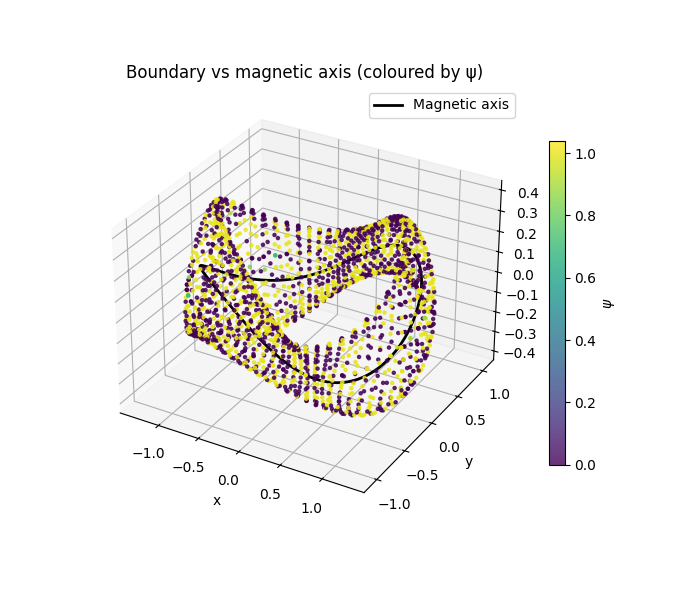
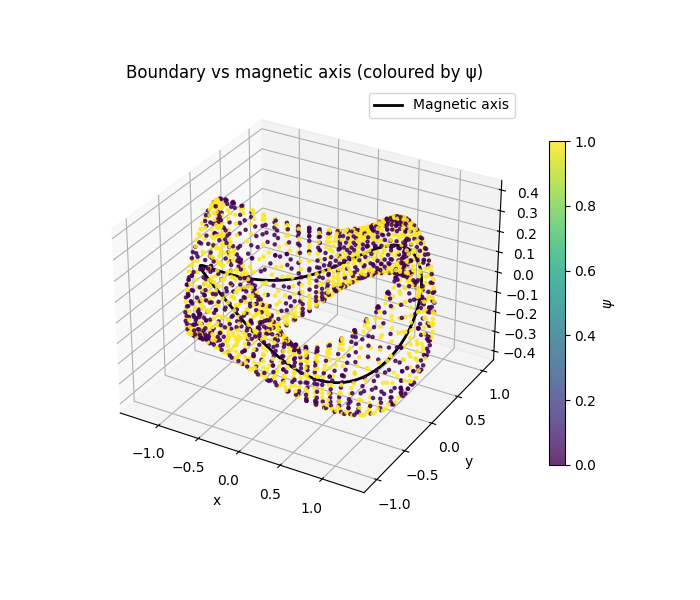
Refactor make_linear_operator and compute_rhs_full functions for improved clarity and efficiency; update grid resolution parameter in CLI.

diff --git a/MFS/solve_flux_psi_fci.py b/MFS/solve_flux_psi_fci.py
@@ -575,97 +575,149 @@ def _face_T(D3: np.ndarray, dx: float, dy: float, dz: float) -> Tuple[np.ndarray
     return kx, ky, kz
 
 
-def make_linear_operator(nx: int, ny: int, nz: int, dx: float, dy: float, dz: float,
-                         inside: np.ndarray, Dfield: np.ndarray, fixed_mask: np.ndarray,
-                         fixed_val: np.ndarray) -> LinearOperator:
+def make_linear_operator(
+    nx: int,
+    ny: int,
+    nz: int,
+    dx: float,
+    dy: float,
+    dz: float,
+    inside: np.ndarray,
+    Dfield: np.ndarray,
+    fixed_mask: np.ndarray,
+    fixed_val: np.ndarray,
+):
     """
     Build a matrix–free LinearOperator for the anisotropic diffusion equation
 
         A[u] = -div( D ∇u )
 
-    using a full-tensor central-difference stencil in the interior:
+    using a conservative flux form on a uniform Cartesian grid.
 
-      - D is assumed slowly varying over one cell, so we discretise
-        -Σ_{p,q} D_{pq} ∂_p∂_q ψ with 2nd-order central differences.
-
-    Dirichlet rows are stamped as u - fixed_val where fixed_mask is True.
+    We:
+      * only use faces where **both** cells are inside the surface;
+      * apply the PDE stencil only on "deep interior" nodes (interior_core);
+      * impose Dirichlet rows u - fixed_val = 0 on fixed_mask nodes.
     """
     inside3 = inside.reshape(nx, ny, nz)
-    D3 = Dfield.reshape(nx, ny, nz, 3, 3)
-    fixed_mask = fixed_mask.astype(bool)
-    rows_fixed = np.where(fixed_mask)[0]
+    fixed3  = fixed_mask.reshape(nx, ny, nz)
+    D3      = Dfield.reshape(nx, ny, nz, 3, 3)
 
-    inv_dx2 = 1.0 / (dx * dx)
-    inv_dy2 = 1.0 / (dy * dy)
-    inv_dz2 = 1.0 / (dz * dz)
-    inv_4dxdy = 1.0 / (4.0 * dx * dy)
-    inv_4dxdz = 1.0 / (4.0 * dx * dz)
-    inv_4dydz = 1.0 / (4.0 * dy * dz)
+    # Deep interior: inside the surface, not Dirichlet, not on the outermost grid shell
+    interior_core = np.ones((nx, ny, nz), dtype=bool)
+    interior_core[0, :, :]   = False
+    interior_core[-1, :, :]  = False
+    interior_core[:, 0, :]   = False
+    interior_core[:, -1, :]  = False
+    interior_core[:, :, 0]   = False
+    interior_core[:, :, -1]  = False
+
+    interior_core &= inside3 & (~fixed3)
+
+    deep_inside_mask = interior_core.ravel(order="C")
+
+    # Face transmissibilities (already include 1/dx^2, 1/dy^2, 1/dz^2 factors)
+    Tx, Ty, Tz = _face_T(D3, dx, dy, dz)
 
     def matvec(u: np.ndarray) -> np.ndarray:
         u3 = u.reshape(nx, ny, nz)
-
-        # Core region indices where centred differences are defined
-        uc = u3[1:-1, 1:-1, 1:-1]
-        Dc = D3[1:-1, 1:-1, 1:-1, :, :]
-        inside_core = inside3[1:-1, 1:-1, 1:-1]
-
-        # Extract tensor components at cell centres
-        Dxx = Dc[..., 0, 0]
-        Dyy = Dc[..., 1, 1]
-        Dzz = Dc[..., 2, 2]
-        Dxy = Dc[..., 0, 1]
-        Dxz = Dc[..., 0, 2]
-        Dyz = Dc[..., 1, 2]
-
-        # Second derivatives (diagonal terms)
-        d2psi_dx2 = (u3[2:, 1:-1, 1:-1] - 2.0 * uc + u3[:-2, 1:-1, 1:-1]) * inv_dx2
-        d2psi_dy2 = (u3[1:-1, 2:, 1:-1] - 2.0 * uc + u3[1:-1, :-2, 1:-1]) * inv_dy2
-        d2psi_dz2 = (u3[1:-1, 1:-1, 2:] - 2.0 * uc + u3[1:-1, 1:-1, :-2]) * inv_dz2
-
-        # Mixed derivatives (cross terms), standard 4-point central differences
-        d2psi_dxdy = (
-            u3[2:, 2:, 1:-1]   - u3[:-2, 2:, 1:-1]
-            - u3[2:, :-2, 1:-1] + u3[:-2, :-2, 1:-1]
-        ) * inv_4dxdy
-
-        d2psi_dxdz = (
-            u3[2:, 1:-1, 2:]   - u3[:-2, 1:-1, 2:]
-            - u3[2:, 1:-1, :-2] + u3[:-2, 1:-1, :-2]
-        ) * inv_4dxdz
-
-        d2psi_dydz = (
-            u3[1:-1, 2:, 2:]   - u3[1:-1, :-2, 2:]
-            - u3[1:-1, 2:, :-2] + u3[1:-1, :-2, :-2]
-        ) * inv_4dydz
-
-        # Full-tensor diffusion operator in the core
-        L_core = (
-            Dxx * d2psi_dx2 +
-            Dyy * d2psi_dy2 +
-            Dzz * d2psi_dz2 +
-            2.0 * Dxy * d2psi_dxdy +
-            2.0 * Dxz * d2psi_dxdz +
-            2.0 * Dyz * d2psi_dydz
-        )
-
-        # Only apply PDE inside the surface
-        L_core[~inside_core] = 0.0
-
-        # Assemble full array
         out3 = np.zeros_like(u3)
-        out3[1:-1, 1:-1, 1:-1] = -L_core  # minus sign from -div(D∇ψ)
+
+        # Only use faces where both neighbours are inside the plasma
+        mask_x = inside3[1:, :, :] & inside3[:-1, :, :]
+        mask_y = inside3[:, 1:, :] & inside3[:, :-1, :]
+        mask_z = inside3[:, :, 1:] & inside3[:, :, :-1]
+
+        # --- x-direction fluxes ---
+        # flux at face between i and i+1: F_x = Tx * (u[i+1] - u[i])
+        Fx_plus = Tx * mask_x * (u3[1:, :, :] - u3[:-1, :, :])
+
+        out3[:-1, :, :] -= Fx_plus
+        out3[1:,  :, :] += Fx_plus
+
+        # --- y-direction fluxes ---
+        Fy_plus = Ty * mask_y * (u3[:, 1:, :] - u3[:, :-1, :])
+
+        out3[:, :-1, :] -= Fy_plus
+        out3[:, 1:,  :] += Fy_plus
+
+        # --- z-direction fluxes ---
+        Fz_plus = Tz * mask_z * (u3[:, :, 1:] - u3[:, :, :-1])
+
+        out3[:, :, :-1] -= Fz_plus
+        out3[:, :, 1: ] += Fz_plus
+
+        # Zero out everything except true PDE interior
+        out3[~interior_core] = 0.0
         out3[~inside3] = 0.0
 
         out = out3.ravel(order="C")
 
-        # Dirichlet rows: overwrite with u - fixed_val
+        # Dirichlet rows: u - fixed_val = 0
+        rows_fixed = np.where(fixed_mask)[0]
         out[rows_fixed] = u[rows_fixed] - fixed_val[rows_fixed]
+
         return out
 
     N = nx * ny * nz
-    return LinearOperator((N, N), matvec=matvec, rmatvec=matvec, dtype=float)
+    A = LinearOperator((N, N), matvec=matvec, rmatvec=matvec, dtype=float)
+    return A, deep_inside_mask
 
+
+# Compute RHS: for each face touching a Dirichlet neighbour,
+# add K * u_fixed to b_full
+def compute_rhs_full(
+    nx: int,
+    ny: int,
+    nz: int,
+    Tx: np.ndarray,
+    Ty: np.ndarray,
+    Tz: np.ndarray,
+    fixed_mask: np.ndarray,
+    fixed_val: np.ndarray,
+) -> np.ndarray:
+    """
+    Build the full RHS vector b_full for A_full u = b_full.
+
+    For each face, if one neighbour cell is Dirichlet with value u_fixed,
+    we add K * u_fixed to the RHS of the opposite cell, where K is the
+    transmissibility on that face.
+
+    Parameters
+    ----------
+    nx, ny, nz : int
+        Grid dimensions.
+    Tx, Ty, Tz :
+        Face transmissibilities in x, y, z directions with shapes
+        (nx-1, ny, nz), (nx, ny-1, nz), (nx, ny, nz-1).
+    fixed_mask : (N,) bool
+        Dirichlet nodes.
+    fixed_val : (N,) float
+        Dirichlet values on those nodes.
+
+    Returns
+    -------
+    b_full : (N,) float
+        Full RHS vector on the entire grid.
+    """
+    fixed3 = fixed_mask.reshape(nx, ny, nz)
+    val3   = fixed_val.reshape(nx, ny, nz)
+
+    b3 = np.zeros((nx, ny, nz), dtype=float)
+
+    # x-faces: between (i, j, k) and (i+1, j, k)
+    b3[:-1, :, :] += Tx * fixed3[1:, :, :] * val3[1:, :, :]
+    b3[1:,  :, :] += Tx * fixed3[:-1, :, :] * val3[:-1, :, :]
+
+    # y-faces: between (i, j, k) and (i, j+1, k)
+    b3[:, :-1, :] += Ty * fixed3[:, 1:, :] * val3[:, 1:, :]
+    b3[:, 1:,  :] += Ty * fixed3[:, :-1, :] * val3[:, :-1, :]
+
+    # z-faces: between (i, j, k) and (i, j, k+1)
+    b3[:, :, :-1] += Tz * fixed3[:, :, 1:] * val3[:, :, 1:]
+    b3[:, :,  1:] += Tz * fixed3[:, :, :-1] * val3[:, :, :-1]
+
+    return b3.ravel(order="C")
 
 
 ###############################################################################
@@ -929,7 +981,6 @@ def solve_fci(npz_file: str, grid_N: int = 64, eps: float = 1e-3, band_h: float 
     val = np.zeros(Ntot, dtype=float)
     fixed[band] = True; val[band] = 1.0
     fixed[axis_band] = True; val[axis_band] = 0.0
-    free = inside_mask & (~fixed)
 
     if verbose:
         print(f"[INFO] #inside nodes        : {inside_mask.sum()} / {Ntot}")
@@ -938,8 +989,6 @@ def solve_fci(npz_file: str, grid_N: int = 64, eps: float = 1e-3, band_h: float 
         print(f"[INFO] boundary band width  ≈ {h_band_vox:.3e}")
         print(f"[INFO] axis band radius     ≈ {axis_band_radius_eff:.3e}")
 
-    if not np.any(free):
-        raise RuntimeError("No free interior nodes; bands cover the entire domain.")
     # Evaluate ∇φ on the grid (chunked to save memory)
     if verbose:
         pinfo("Evaluating ∇φ on grid ...")
@@ -954,15 +1003,24 @@ def solve_fci(npz_file: str, grid_N: int = 64, eps: float = 1e-3, band_h: float 
         G[start:start + chunk] = Gi
     # Build diffusion tensor
     D = diffusion_tensor(G, eps=eps, delta=delta)
+
     # Build matrix–free operator
-    A_full = make_linear_operator(nx, ny, nz, dx, dy, dz, inside_mask, D, fixed, val)
-    # Compute RHS for fixed values
-    def compute_rhs_full() -> np.ndarray:
-        u_full = np.array(val, copy=True)
-        r_full = A_full @ u_full
-        return -r_full
-    b_full = compute_rhs_full()
+    A_full, deep_inside = make_linear_operator(
+        nx, ny, nz, dx, dy, dz,
+        inside_mask, D, fixed, val
+    )
+
+    # Free unknowns are "deep interior" AND not fixed
+    free = deep_inside & (~fixed)
+    if not np.any(free):
+        raise RuntimeError("No free deep-interior nodes; bands / geometry too tight.")
+
+    # Compute RHS for fixed values using the same face transmissibilities
+    D3 = D.reshape(nx, ny, nz, 3, 3)
+    Tx, Ty, Tz = _face_T(D3, dx, dy, dz)
+    b_full = compute_rhs_full(nx, ny, nz, Tx, Ty, Tz, fixed, val)
     b_free = b_full[free]
+
     # Construct restricted operator on free nodes
     def matvec_free(u_free: np.ndarray) -> np.ndarray:
         u_full = np.zeros_like(val)
@@ -1263,7 +1321,7 @@ if __name__ == "__main__":
     parser = argparse.ArgumentParser(description="Solve field–aligned flux function ψ via FCI diffusion.")
     parser.add_argument("npz", nargs="?", default=resolve_npz_file_location(default_solution),
                 help="MFS solution checkpoint (*.npz) containing center, scale, Yn, alpha, a, a_hat, P, N")
-    parser.add_argument("--N", type=int, default=42, help="Grid resolution per axis")
+    parser.add_argument("--N", type=int, default=48, help="Grid resolution per axis")
     parser.add_argument("--eps", type=float, default=2e-2, help="Perpendicular diffusion weight")
     parser.add_argument("--delta", type=float, default=5e-2, help="Isotropic diffusion floor")
     parser.add_argument("--band-h", type=float, default=1.0, help="Boundary band thickness multiplier")
